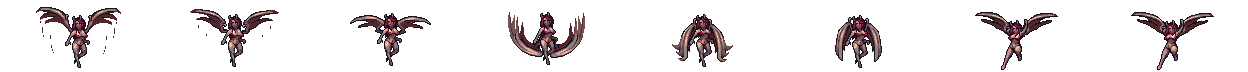
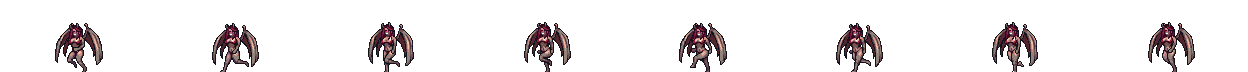
Jumping

diff --git a/src/entities/PlayerInputController.ts b/src/entities/PlayerInputController.ts
@@ -15,7 +15,7 @@ import { isPointerOverUI } from '../utils/inputUtils';
 // Touch control constants
 export const TOUCH_CONFIG = {
   THRESHOLD_X: 20,
-  THRESHOLD_Y: 80,
+  THRESHOLD_Y: 150,
   // UI ignore zones
   LANGUAGE_BUTTON: { width: 120, height: 60 },
   SKIN_BUTTON: { width: 120, height: 60, yOffset: 60 },
@@ -24,11 +24,13 @@ export const TOUCH_CONFIG = {
 // Movement constants
 export const MOVEMENT_CONFIG = {
   SPEED: 350,
+  JUMP_SPEED: -600,
 } as const;
 
 export interface InputState {
   left: boolean;
   right: boolean;
+  jump: boolean;
 }
 
 export interface PlayerInputControllerOptions {
@@ -46,13 +48,17 @@ export class PlayerInputController {
   // Keyboard controls - arrow keys
   private keyLeft?: Phaser.Input.Keyboard.Key;
   private keyRight?: Phaser.Input.Keyboard.Key;
+  private keyUp?: Phaser.Input.Keyboard.Key;
+  private keySpace?: Phaser.Input.Keyboard.Key;
   // WASD
   private keyA?: Phaser.Input.Keyboard.Key;
   private keyD?: Phaser.Input.Keyboard.Key;
+  private keyW?: Phaser.Input.Keyboard.Key;
   
   // Touch state
   private touchLeft: boolean = false;
   private touchRight: boolean = false;
+  private touchJump: boolean = false;
   
   // Touch handlers for cleanup
   private touchHandlers?: {
@@ -78,9 +84,12 @@ export class PlayerInputController {
       // Arrow keys
       this.keyLeft = this.scene.input.keyboard.addKey(Phaser.Input.Keyboard.KeyCodes.LEFT, false);
       this.keyRight = this.scene.input.keyboard.addKey(Phaser.Input.Keyboard.KeyCodes.RIGHT, false);
+      this.keyUp = this.scene.input.keyboard.addKey(Phaser.Input.Keyboard.KeyCodes.UP, false);
+      this.keySpace = this.scene.input.keyboard.addKey(Phaser.Input.Keyboard.KeyCodes.SPACE, false);
       // WASD
       this.keyA = this.scene.input.keyboard.addKey(Phaser.Input.Keyboard.KeyCodes.A, false);
       this.keyD = this.scene.input.keyboard.addKey(Phaser.Input.Keyboard.KeyCodes.D, false);
+      this.keyW = this.scene.input.keyboard.addKey(Phaser.Input.Keyboard.KeyCodes.W, false);
     }
   }
 
@@ -95,6 +104,7 @@ export class PlayerInputController {
       if (get(frameClickBlocked)) {
         this.touchLeft = false;
         this.touchRight = false;
+        this.touchJump = false;
         return;
       }
       
@@ -118,7 +128,9 @@ export class PlayerInputController {
       const camera = scene.cameras.main;
       const playerPos = this.getPlayerPosition();
       const playerScreenX = playerPos.x - camera.scrollX;
+      const playerScreenY = playerPos.y - camera.scrollY;
       const deltaX = x - playerScreenX;
+      const deltaY = y - playerScreenY;
 
       // Determine movement direction
       if (deltaX < -TOUCH_CONFIG.THRESHOLD_X) {
@@ -130,6 +142,13 @@ export class PlayerInputController {
       } else {
         this.touchLeft = false;
         this.touchRight = false;
+      }
+
+      // Determine jump (click above player)
+      if (deltaY < -TOUCH_CONFIG.THRESHOLD_Y) {
+        this.touchJump = true;
+      } else {
+        this.touchJump = false;
       }
     };
 
@@ -150,6 +169,7 @@ export class PlayerInputController {
     const pointerupHandler = () => {
       this.touchLeft = false;
       this.touchRight = false;
+      this.touchJump = false;
     };
 
     scene.input.on('pointerdown', pointerdownHandler);
@@ -170,8 +190,9 @@ export class PlayerInputController {
   getInputState(): InputState {
     const left = this.keyA?.isDown || this.keyLeft?.isDown || this.touchLeft || false;
     const right = this.keyD?.isDown || this.keyRight?.isDown || this.touchRight || false;
+    const jump = this.keySpace?.isDown || this.keyUp?.isDown || this.keyW?.isDown || this.touchJump || false;
     
-    return { left, right };
+    return { left, right, jump };
   }
 
   /**
@@ -179,7 +200,7 @@ export class PlayerInputController {
    */
   hasAnyInput(): boolean {
     const state = this.getInputState();
-    return state.left || state.right;
+    return state.left || state.right || state.jump;
   }
 
   /**

diff --git a/src/entities/ModularPlayer.ts b/src/entities/ModularPlayer.ts
@@ -31,7 +31,7 @@ import {
 } from '../utils/ModularCharacterBuilder';
 import { ModularCharacterVisual } from './ModularCharacterVisual';
 
-type AnimationState = 'idle' | 'running';
+type AnimationState = 'idle' | 'running' | 'jumping' | 'falling';
 
 export class ModularPlayer extends Phaser.GameObjects.Container implements IPlayer {
   private character: ModularCharacterVisual | null = null;
@@ -216,8 +216,10 @@ export class ModularPlayer extends Phaser.GameObjects.Container implements IPlay
    */
   update() {
     const input = this.inputController.getInputState();
-    const { left, right } = input;
+    const body = this.body as Phaser.Physics.Arcade.Body;
     
+    if (!body) return;
+
     // Track first input
     if (this.inputController.hasAnyInput() && !this.hasReceivedInput) {
       this.hasReceivedInput = true;
@@ -229,22 +231,38 @@ export class ModularPlayer extends Phaser.GameObjects.Container implements IPlay
       hasPlayerMoved.set(true);
     }
     
-    // Movement
-    if (left) {
-      this.velocityX = -MOVEMENT_CONFIG.SPEED;
+    // Horizontal Movement
+    if (input.left) {
+      body.setVelocityX(-MOVEMENT_CONFIG.SPEED);
       this.setFacing('left');
-      this.animState = 'running';
-    } else if (right) {
-      this.velocityX = MOVEMENT_CONFIG.SPEED;
+    } else if (input.right) {
+      body.setVelocityX(MOVEMENT_CONFIG.SPEED);
       this.setFacing('right');
-      this.animState = 'running';
     } else {
-      this.velocityX = 0;
-      this.animState = 'idle';
+      body.setVelocityX(0);
+    }
+
+    // Jumping
+    if (input.jump && body.blocked.down) {
+      body.setVelocityY(MOVEMENT_CONFIG.JUMP_SPEED);
     }
     
-    // Apply movement
-    this.x += this.velocityX * (this.scene.game.loop.delta / 1000);
+    // Determine animation state
+    if (!body.blocked.down) {
+      // In air
+      if (body.velocity.y < 0) {
+        this.animState = 'jumping';
+      } else {
+        this.animState = 'falling';
+      }
+    } else {
+      // On ground
+      if (input.left || input.right) {
+        this.animState = 'running';
+      } else {
+        this.animState = 'idle';
+      }
+    }
     
     // Play animation
     switch (this.animState) {
@@ -253,6 +271,12 @@ export class ModularPlayer extends Phaser.GameObjects.Container implements IPlay
         break;
       case 'running':
         this.playAnimation('run');
+        break;
+      case 'jumping':
+        this.playAnimation('jump');
+        break;
+      case 'falling':
+        this.playAnimation('fall');
         break;
     }
   }

diff --git a/src/utils/skinLoader.ts b/src/utils/skinLoader.ts
@@ -32,6 +32,14 @@ export function preloadSkins(scene: Phaser.Scene): void {
       frameWidth,
       frameHeight,
     });
+    scene.load.spritesheet(`${skin.id}-jump`, `${basePath}/jump.png`, {
+      frameWidth,
+      frameHeight,
+    });
+    scene.load.spritesheet(`${skin.id}-fall`, `${basePath}/fall.png`, {
+      frameWidth,
+      frameHeight,
+    });
   });
 }
 
@@ -55,17 +63,29 @@ export function createSkinAnimations(scene: Phaser.Scene, skin: SkinConfig): voi
   if (scene.anims.exists(`${skinId}-run`)) {
     scene.anims.remove(`${skinId}-run`);
   }
+  if (scene.anims.exists(`${skinId}-jump`)) {
+    scene.anims.remove(`${skinId}-jump`);
+  }
+  if (scene.anims.exists(`${skinId}-fall`)) {
+    scene.anims.remove(`${skinId}-fall`);
+  }
   
   // Get texture to determine frame count
   const idleTexture = scene.textures.get(`${skinId}-idle`);
   const runTexture = scene.textures.get(`${skinId}-run`);
+  const jumpTexture = scene.textures.get(`${skinId}-jump`);
+  const fallTexture = scene.textures.get(`${skinId}-fall`);
   
   const idleFrameCount = idleTexture.frameTotal - 1; // Subtract 1 for __BASE frame
   const runFrameCount = runTexture.frameTotal - 1;
+  const jumpFrameCount = jumpTexture.key !== '__MISSING' ? jumpTexture.frameTotal - 1 : 0;
+  const fallFrameCount = fallTexture.key !== '__MISSING' ? fallTexture.frameTotal - 1 : 0;
   
   // Default frame rates
   const idleFps = skin.frameRates?.idle ?? 6;
   const runFps = skin.frameRates?.run ?? 12;
+  const jumpFps = skin.frameRates?.jump ?? 10;
+  const fallFps = skin.frameRates?.fall ?? 10;
   
   // Idle animation
   scene.anims.create({
@@ -82,6 +102,26 @@ export function createSkinAnimations(scene: Phaser.Scene, skin: SkinConfig): voi
     frameRate: runFps,
     repeat: -1
   });
+
+  // Jump animation
+  if (jumpFrameCount > 0) {
+    scene.anims.create({
+      key: `${skinId}-jump`,
+      frames: scene.anims.generateFrameNumbers(`${skinId}-jump`, { start: 0, end: jumpFrameCount - 1 }),
+      frameRate: jumpFps,
+      repeat: -1
+    });
+  }
+
+  // Fall animation
+  if (fallFrameCount > 0) {
+    scene.anims.create({
+      key: `${skinId}-fall`,
+      frames: scene.anims.generateFrameNumbers(`${skinId}-fall`, { start: 0, end: fallFrameCount - 1 }),
+      frameRate: fallFps,
+      repeat: -1
+    });
+  }
 }
 
 /**

diff --git a/src/entities/PlayerAnimations.ts b/src/entities/PlayerAnimations.ts
@@ -11,7 +11,7 @@
 import Phaser from 'phaser';
 import { DEFAULT_SKIN_ID } from '../data/skinConfig';
 
-export type AnimationState = 'idle' | 'running';
+export type AnimationState = 'idle' | 'running' | 'jumping' | 'falling';
 
 /**
  * PlayerAnimations - Manager for player animation playback
@@ -52,14 +52,14 @@ export class PlayerAnimations {
   /**
    * Get animation key for current skin
    */
-  getAnimationKey(type: 'idle' | 'run'): string {
+  getAnimationKey(type: 'idle' | 'run' | 'jump' | 'fall'): string {
     return `${this.currentSkinId}-${type}`;
   }
 
   /**
    * Play animation on sprite
    */
-  play(sprite: Phaser.GameObjects.Sprite, type: 'idle' | 'run'): void {
+  play(sprite: Phaser.GameObjects.Sprite, type: 'idle' | 'run' | 'jump' | 'fall'): void {
     const key = this.getAnimationKey(type);
     
     // Skip if already playing this animation
@@ -69,6 +69,15 @@ export class PlayerAnimations {
     
     // Check if animation exists before playing
     if (!this.scene.anims.exists(key)) {
+      // Fallback for jump/fall if they don't exist (e.g. for some skins)
+      if (type === 'jump' || type === 'fall') {
+        // Try to play idle or run instead if jump/fall missing
+        const fallbackKey = this.getAnimationKey('idle');
+        if (this.scene.anims.exists(fallbackKey)) {
+           sprite.play(fallbackKey);
+           return;
+        }
+      }
       console.warn(`[PlayerAnimations] Animation not found: ${key}`);
       return;
     }
@@ -86,8 +95,8 @@ export class PlayerAnimations {
     // Get current animation type and replay with new skin
     const currentAnim = sprite.anims.currentAnim?.key;
     if (currentAnim) {
-      // Extract animation type (e.g., "idle", "run")
-      const animType = currentAnim.replace(`${oldSkinId}-`, '') as 'idle' | 'run';
+      // Extract animation type (e.g., "idle", "run", "jump", "fall")
+      const animType = currentAnim.replace(`${oldSkinId}-`, '') as 'idle' | 'run' | 'jump' | 'fall';
       const newAnimKey = `${newSkinId}-${animType}`;
       
       if (this.scene.anims.exists(newAnimKey)) {

diff --git a/src/entities/Player.ts b/src/entities/Player.ts
@@ -144,8 +144,8 @@ export class Player extends Phaser.Physics.Arcade.Sprite implements IPlayer {
    * Play animation by name
    */
   playAnimation(animName: string): void {
-    if (animName === 'idle' || animName === 'run') {
-      this.animations.play(this, animName);
+    if (animName === 'idle' || animName === 'run' || animName === 'jump' || animName === 'fall') {
+      this.animations.play(this, animName as any);
     }
   }
   
@@ -216,14 +216,33 @@ export class Player extends Phaser.Physics.Arcade.Sprite implements IPlayer {
     if (input.left) {
       this.setVelocityX(-MOVEMENT_CONFIG.SPEED);
       this.setFlipX(!facingLeft); // Normal: true, FacingLeft: false
-      this.animState = 'running';
     } else if (input.right) {
       this.setVelocityX(MOVEMENT_CONFIG.SPEED);
       this.setFlipX(facingLeft);  // Normal: false, FacingLeft: true
-      this.animState = 'running';
     } else {
       this.setVelocityX(0);
-      this.animState = 'idle';
+    }
+
+    // Handle jumping
+    if (input.jump && this.body?.blocked.down) {
+      this.setVelocityY(MOVEMENT_CONFIG.JUMP_SPEED);
+    }
+
+    // Determine animation state
+    if (!this.body?.blocked.down) {
+      // In air
+      if (this.body!.velocity.y < 0) {
+        this.animState = 'jumping';
+      } else {
+        this.animState = 'falling';
+      }
+    } else {
+      // On ground
+      if (input.left || input.right) {
+        this.animState = 'running';
+      } else {
+        this.animState = 'idle';
+      }
     }
 
     // Play appropriate animation
@@ -233,6 +252,12 @@ export class Player extends Phaser.Physics.Arcade.Sprite implements IPlayer {
         break;
       case 'running':
         this.playAnimation('run');
+        break;
+      case 'jumping':
+        this.playAnimation('jump');
+        break;
+      case 'falling':
+        this.playAnimation('fall');
         break;
     }
   }

diff --git a/src/data/skinConfig.ts b/src/data/skinConfig.ts
@@ -18,6 +18,8 @@ export interface SkinConfig {
   frameRates?: {        // Optional frame rate overrides
     idle?: number;
     run?: number;
+    jump?: number;
+    fall?: number;
   };
 }
 
